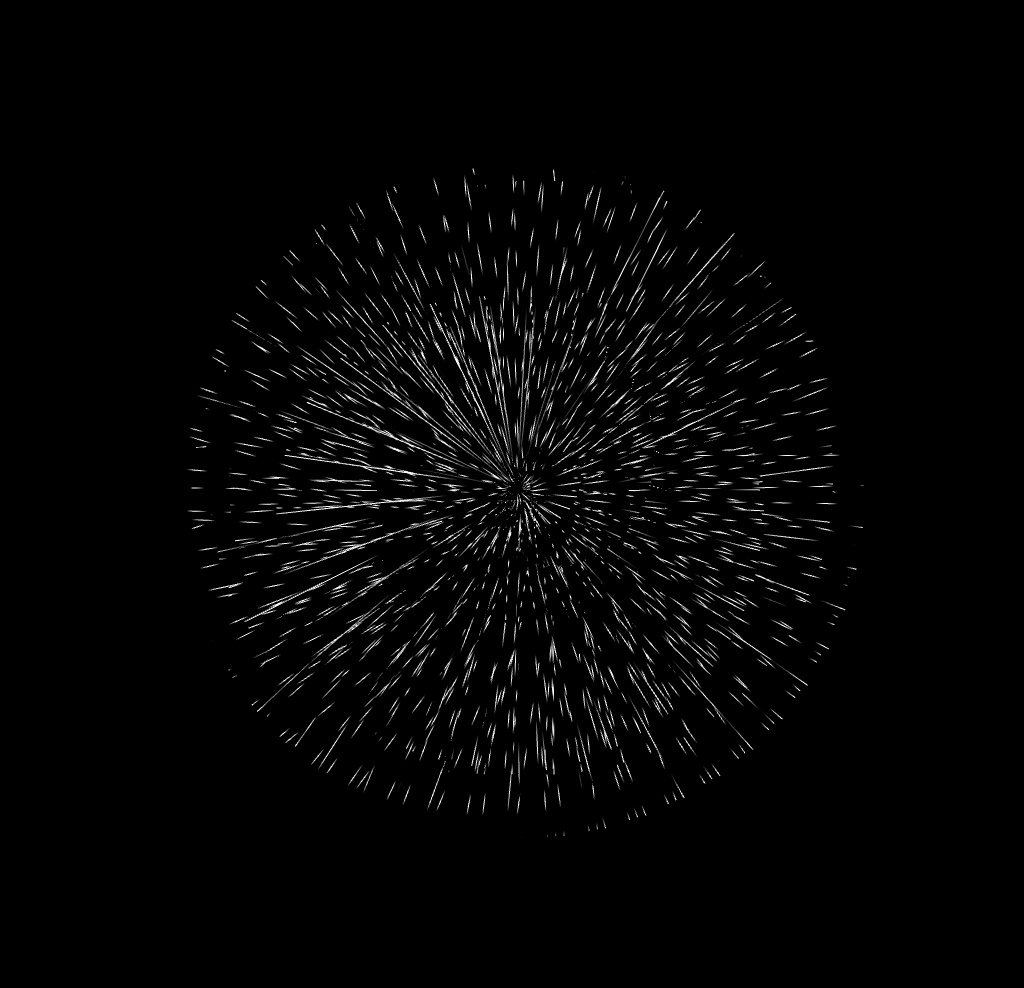
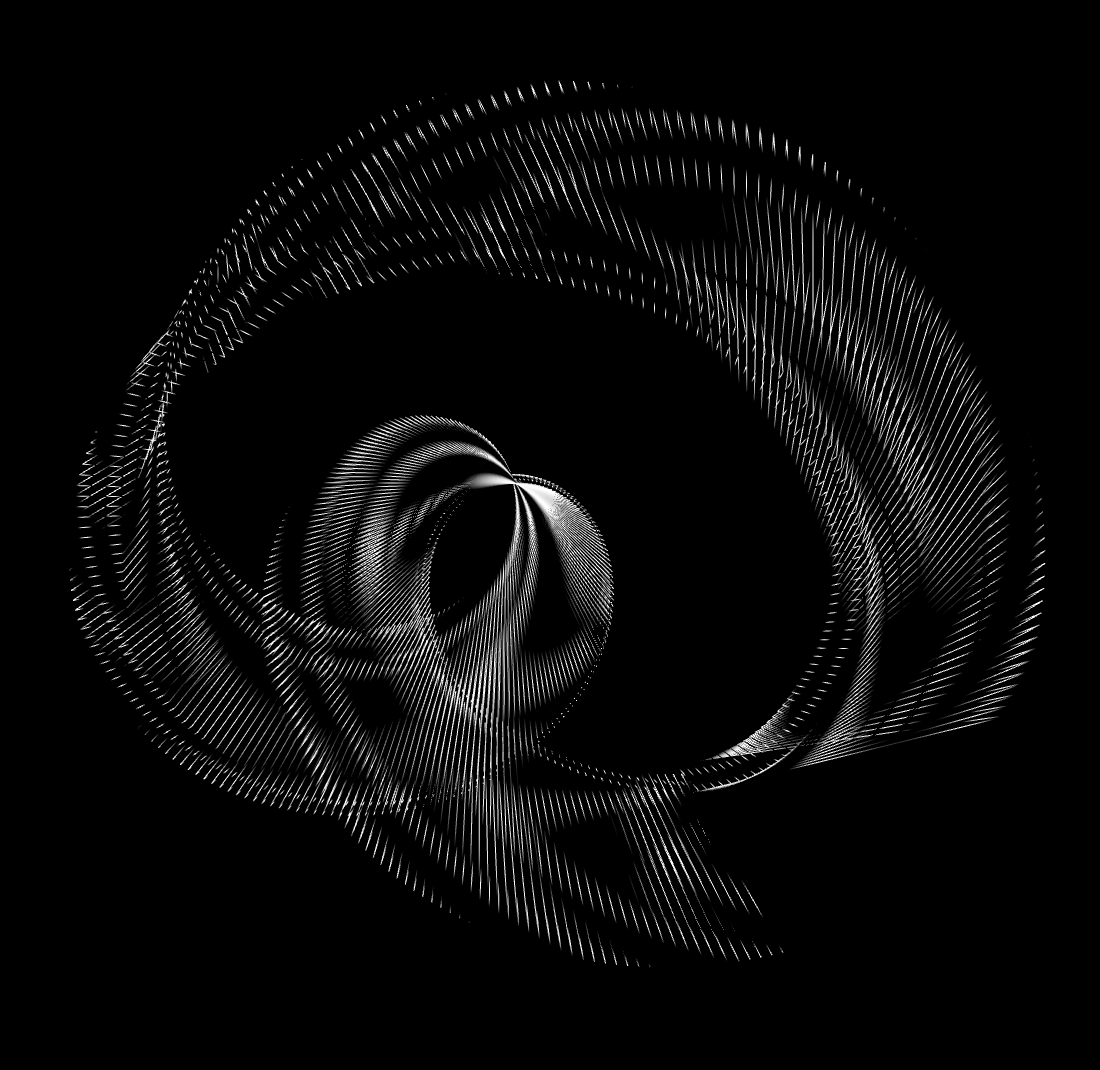
[snapshot]

diff --git a/index.js b/index.js
@@ -65,7 +65,7 @@ require("getusermedia")({ audio: true }, function(err, stream) {
         p.x,
         p.y ,
         p.z ,
-        (0.9 - frequency*0.9));
+        (0.3 - frequency*0.3));
       vPosition = ps.xyz;
         
        gl_Position = projection * view * ps;
@@ -79,7 +79,7 @@ require("getusermedia")({ audio: true }, function(err, stream) {
     void main() {
       
       gl_FragColor = vec4(
-        vec3(sin( time*0.01 +distance(vPosition, vec3(0.1))*50.) ),
+        vec3(sin( time*0.005 +distance(vPosition, vec3(0.1))*120.) ),
         1.0);
       
     }`,
@@ -99,12 +99,12 @@ require("getusermedia")({ audio: true }, function(err, stream) {
     lineWidth: 1,
     depth: { enable: true },
     count: fftSize,
-    primitive: "lines"
+    primitive: "line loop"
   });
 
   function cPoint(i,v,N) {
     var phi = 4 * Math.PI * (i / N);
-    var rho = phi*10;
+    var rho = phi*2;
     let r = 1;
     
     if(v==1){
@@ -112,7 +112,7 @@ require("getusermedia")({ audio: true }, function(err, stream) {
     }
     if(v==2){
       // rho+= Math.PI*0.20;
-      r= 0.5;
+      r= 0.9;
     }
 
     let x = r * Math.sin(phi)*Math.cos(rho);
